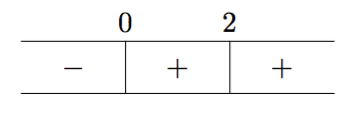
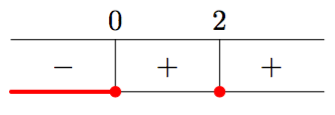
Lisää

diff --git a/kurssit/maa2/luku4/index.html b/kurssit/maa2/luku4/index.html
@@ -752,6 +752,38 @@ topnav: maa2
             <p>
             <img src="/kurssit/maa2/kuvat/KAk16.png" max-width: 100%; width: auto; height: auto;/> 
             </p>
+            <p>
+                Tästä voidaan päätellä, että epäyhtälö $$x^3 \leq 4x(x-1)$$ toteutuu, jos ja vain jos $x \leq 0$ tai $x = 2$.
+            </p>
+
+            <div class="tehtavat">
+                <div class="tehtava" id="korkeammat18-ex">
+                    <header>
+                        <h1>
+                            <a data-toggle="collapse" class="collapsed" data-target="#korkeammat18">
+                                Korkeamman asteen epäyhtälö
+                            </a>
+                        </h1>
+                    </header>
+                    <div id="korkeammat18" class="collapse">
+                        <p> Ratkaise seuraavat epäyhtälöt samaan tapaan kuin edellä:
+                        <ol class="a">
+                            <li> $x^3-4x^2 + 3x < 0$ </li>
+                            <li> $2x^3+x^2 > 3x$</li>
+                        </ol>
+                        </p>
+                    </div>
+                </div>
+            </div>
+
+            <p>
+                Jos epäyhtälön toinen puoli on valmiiksi tulomuodossa, merkkikaavioon kannattaa merkitä jokaisen tulon tekijän merkki erikseen. Esimerkiksi epäyhtälön
+                $$(x+1)(x-3)(5-2x) < 0$$
+                tapauksessa vastaavan polynomifunktion $f(x) = (x+1)(x-3)(5-2x)$ nollakohdiksi saadaan tulon nollasäännön perusteella $x_1 = -1$, $x_2 = 3$ ja $x_3 = \frac{5}{2}$. Tutkimalla erikseen jokaisen tulon tekijän merkki, saadaan piirrettyä seuraava merkkikaavio:
+            </p>
+            <p>
+            <img src="/kurssit/maa2/kuvat/KAk17.png" max-width: 100%; width: auto; height: auto;/> 
+            </p>
 
         </div>
     </section>
